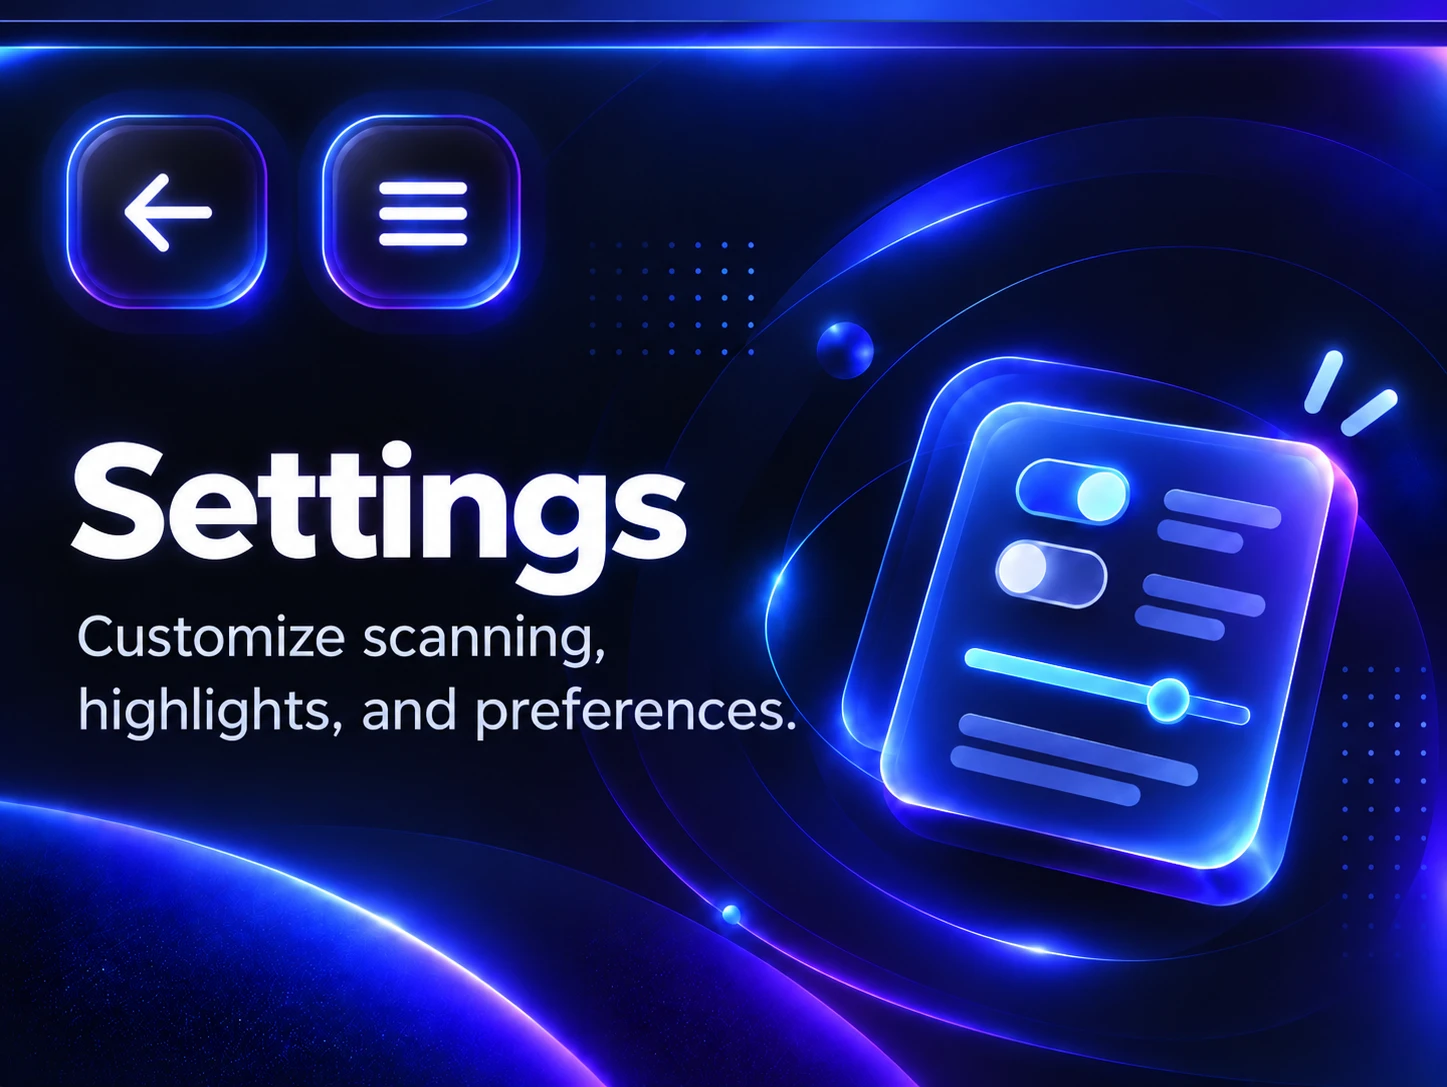
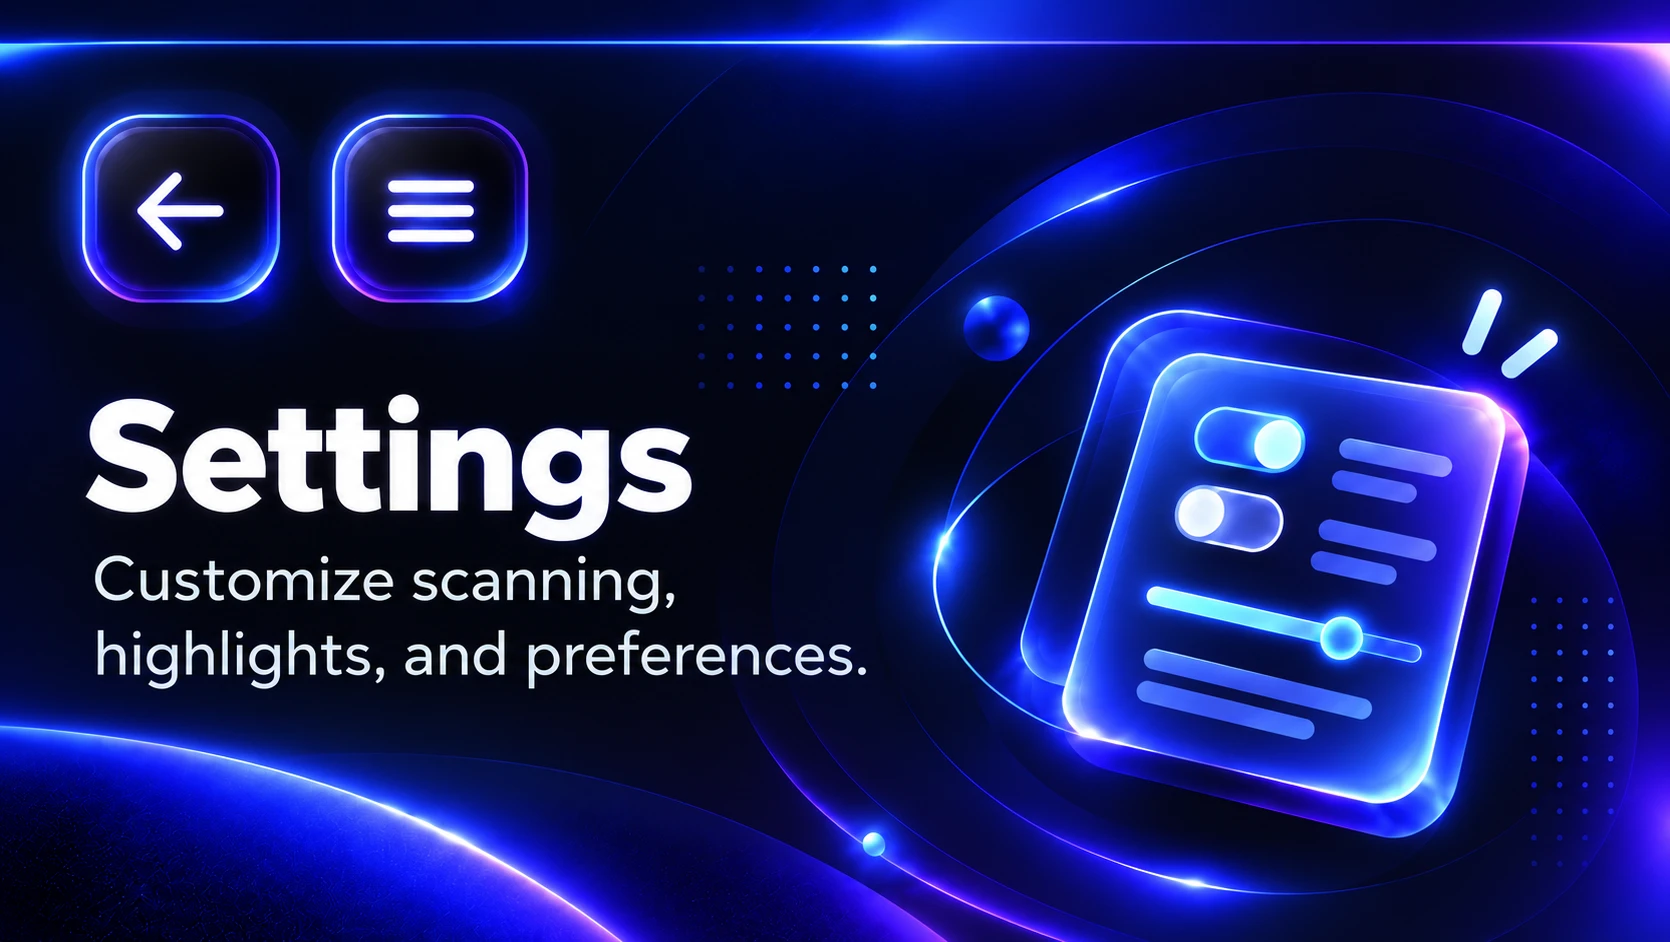
update settings hero artwork

diff --git a/src/linkedin/panel/panelStyles.ts b/src/linkedin/panel/panelStyles.ts
@@ -1107,29 +1107,17 @@ export function getPanelStyles(widthPx: number): string {
     width: 13.3%;
     border-radius: 50%;
   }
-  /* Settings artwork is taller than the Analyzer's; show the same 1672:941 window of it, dropping
-     empty glow above the buttons and the planet curve below the card. Hotspots are fractions of
-     that window: the source rows 85-899 of 1087. */
-  .lw-art-hero--settings {
-    aspect-ratio: 1672 / 941;
-    overflow: hidden;
-  }
-  .lw-art-hero--settings .lw-art-hero__art {
-    height: 100%;
-    object-fit: cover;
-    object-position: 50% 31.1%;
-  }
   .lw-art-hero--settings .lw-art-hero__hotspot {
-    top: 3.7%;
-    width: 13.8%;
-    height: 23.7%;
+    top: 12.2%;
+    width: 11.7%;
+    height: 20%;
     border-radius: 24%;
   }
   .lw-art-hero--settings .lw-art-hero__hotspot--back {
-    left: 4.7%;
+    left: 4.9%;
   }
   .lw-art-hero--settings .lw-art-hero__hotspot--menu {
-    left: 22.25%;
+    left: 19.9%;
   }
   .lw-an-goal {
     display: flex;

diff --git a/src/linkedin/panel/MainMenu.tsx b/src/linkedin/panel/MainMenu.tsx
@@ -165,8 +165,8 @@ export function SettingsHero() {
     <ArtworkHero
       name="settings"
       path="content/assets/settings-hero.webp"
-      width={1447}
-      height={1087}
+      width={1670}
+      height={942}
       alt="Settings. Customize scanning, highlights, and preferences."
       hotspots={[
         { label: "Go back", modifier: "back", onClick: leaveSettings },
